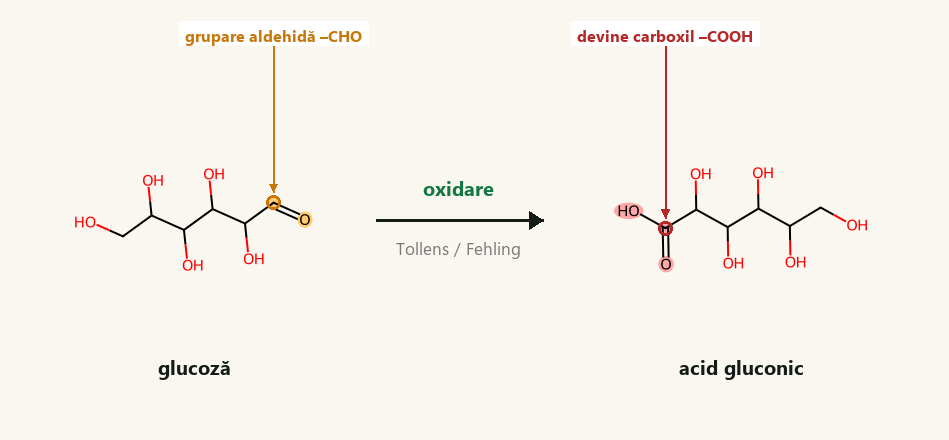
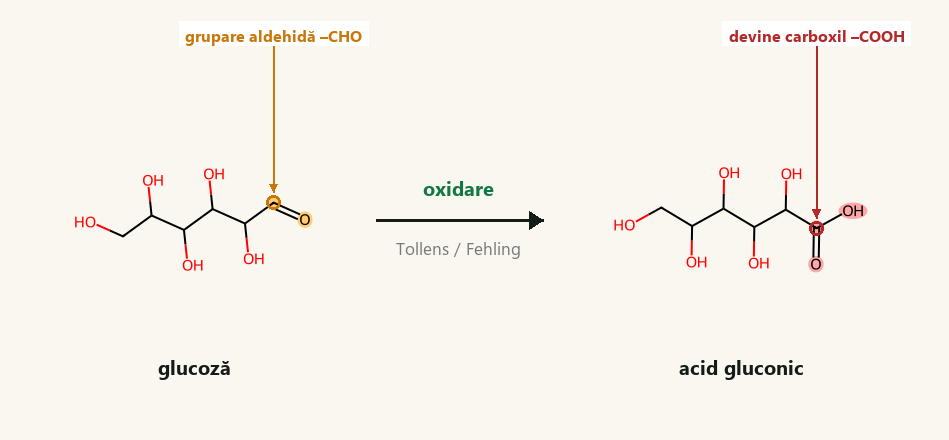
Slide 09 respiratie detaliata (bilant atomi); slide 08 glucoza inainte/dupa; slide 10 acid gluconic orientat ca glucoza (COOH dreapta)

Changed region(s): [[0.6417, 0.3841, 0.9168, 0.6205], [0.6112, 0.0591, 0.9473, 0.1182]]

diff --git a/index.html b/index.html
@@ -90,6 +90,7 @@ p{margin-bottom:13px;max-width:64ch}
 .plate-light .cap{font-family:var(--mono);font-size:11px;color:#6a7d70;text-align:center;margin-top:5px}
 .rxn{padding:8px 14px}.rxn img{max-height:25vh}
 .poly img{max-height:31vh}
+.detail img{max-height:50vh}
 
 .stats{display:grid;grid-template-columns:repeat(4,1fr);gap:18px}
 @media(max-width:820px){.stats{grid-template-columns:repeat(2,1fr)}}
@@ -325,9 +326,9 @@ tbody tr:hover td,tbody tr:hover th{background:rgba(57,217,138,.05)}
     <div class="wrap">
       <div class="eyebrow u">Reacții chimice · 3 · de unde vine energia</div>
       <h2 class="u" style="--d:1">Oxidarea totală (respirația celulară)</h2>
-      <p class="u" style="--d:2">Glucoza eliberată din glicogen este <span class="amb">„arsă” complet</span> cu oxigenul pe care îl respiri. Aceasta este reacția care îți dă energie:</p>
-      <div class="plate-light u" style="--d:3"><img src="images/rxn_respiratie.png" alt="respiratia celulara, oxidarea totala a glucozei"><div class="cap">≈ 2870 kJ de energie pentru fiecare mol de glucoză</div></div>
-      <div class="note u" style="--d:4"><svg class="ic"><use href="#i-fire"/></svg><div>Oxigenul (O₂) intră când <b>inspiri</b>, iar dioxidul de carbon (CO₂) rezultat îl <b>expiri</b>. Lanțul complet: glicogen → glucoză → CO₂ + H₂O + energie.</div></div>
+      <p class="u" style="--d:2">Glucoza din glicogen este <span class="amb">arsă complet</span> cu oxigenul respirat — fiecare atom se oxidează (≈ 2870 kJ pentru fiecare mol):</p>
+      <div class="plate-light detail u" style="--d:3"><img src="images/respiratie_detaliu.png" alt="arderea completa a glucozei, bilantul atomilor"></div>
+      <div class="note u" style="--d:4"><svg class="ic"><use href="#i-fire"/></svg><div>Oxigenul (O₂) intră când <b>inspiri</b>, iar dioxidul de carbon (CO₂) rezultat îl <b>expiri</b>. Lanțul: glicogen → glucoză → CO₂ + H₂O + energie.</div></div>
     </div>
   </section>
 